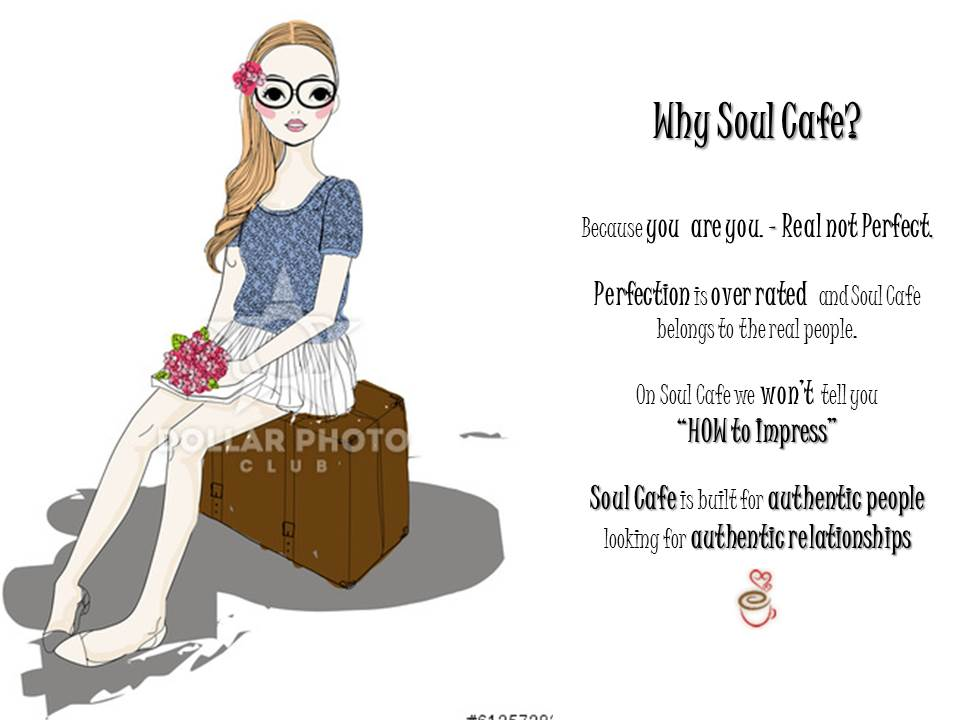
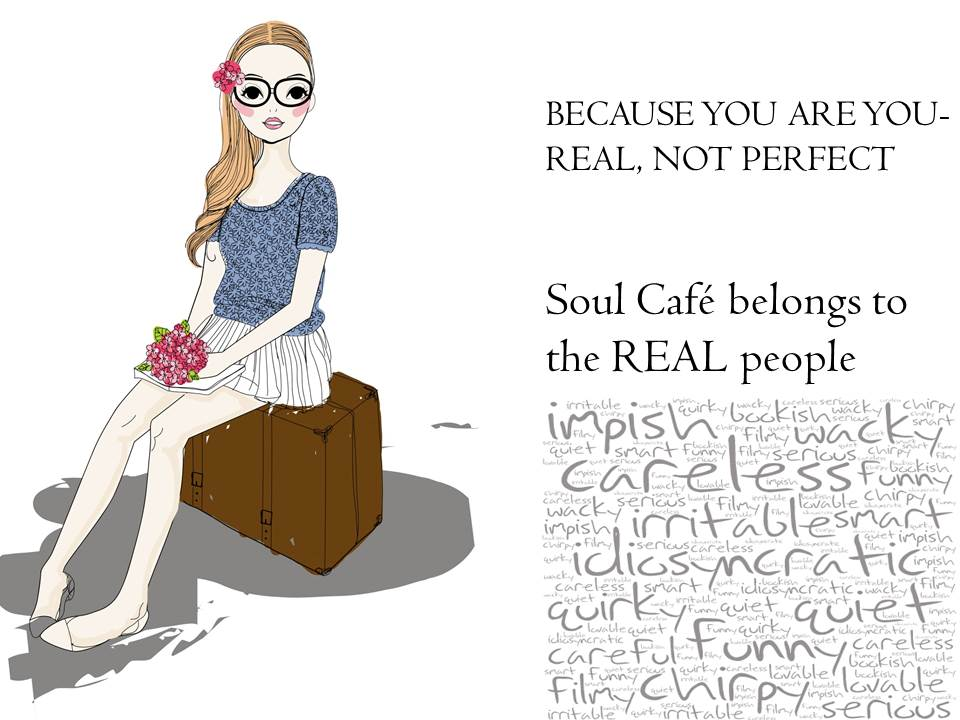
New images for slider added and close button change for why soulcafe

diff --git a/app/styles/home.scss b/app/styles/home.scss
@@ -2,6 +2,20 @@
 	border:1px solid red;
 }
 
+i.icon-custom1{
+	border: 1px solid #555;
+    color: #555;
+    display: inline-block;
+    font-size: 33px;
+    font-weight: 100 !important;
+    height: 32px;
+    line-height: 29px;
+   
+    padding-top: 0 !important;
+    text-align: center;
+    width: 32px;
+}
+
 .height-adjust{
 	height:550px;
 }
@@ -898,7 +912,7 @@ background: linear-gradient(270deg, #f2f2f2 80%, #d8d6d2 88%) repeat scroll 0 0 
 
 .video{
 	width:100%;
-	min-height:300px;
+	height:300px;
 }
 
 .footer-logo{
@@ -935,7 +949,7 @@ footer{
 .fixer {
     left: 92%;
     position: absolute;
-    top: -21px;
+    top: -19px;
     z-index: 999;
 }
 .fixer-no {
@@ -1052,7 +1066,7 @@ footer{
     	left: 97%;
 	}
 .fixer-no {
-    left: 81.5%;
+    left: 97%;
 }
 .fixer-contact {
     left: 95.5%;
@@ -1076,7 +1090,7 @@ footer{
 }
 
 .fixer-no {
-    left: 82%;
+    left: 97%;
 }
 
 .carousel-control .glyphicon-chevron-right, .carousel-control .icon-next {
@@ -1090,8 +1104,8 @@ footer{
 	height:550px;
 }
 .video{
-	width:70%;
-	min-height:300px;
+	width:100%;
+	min-height:400px;
 }
 .fortab{
 	float:none !important;
@@ -1289,8 +1303,8 @@ min-height: 1150px;
 	height:600px;
 }
 .video{
-	width:70%;
-	min-height:400px;
+	width:100%;
+	min-height:640px;
 }
 .left-signup {
 	padding-top:100px;
@@ -1456,7 +1470,7 @@ min-height: 1150px;
 	margin-left:10%;
 }
 .fixer-no {
-    left: 83%;
+    left: 98%;
 }
 .fixer{
 	left:98.5%;
@@ -1472,8 +1486,8 @@ min-height: 1150px;
 	height:550px;
 }
 .video{
-	width:70%;
-	min-height:400px;
+	width:100%;
+	min-height:640px;
 }
 .left-signup {
 	padding-top:100px;

diff --git a/app/views/why-soul.html b/app/views/why-soul.html
@@ -28,7 +28,7 @@
         ================================================== -->
       <div class="pos-rel">
        <a class=" fixer" title="Close" href="#/" >
-        <i class="icon-custom rounded-x icon-bg-u fa fa-times" ></i>
+        <i class="icon-custom1 rounded-x fa fa-times" ></i>
       </a>
       </div>
         
@@ -37,7 +37,7 @@
       
       <div class="carousel-inner" >
         
-        <div ng-class="{item: true, active : (img.no === 0)}" ng-repeat="img in images"> <img ng-src="{{img.src}}" alt="Slide numder {{img.no}}" style="width:100%;  height: 500px;">
+        <div ng-class="{item: true, active : (img.no === 0)}" ng-repeat="img in images"> <img ng-src="{{img.src}}" alt="Slide numder {{img.no}}" style="width:100%;height:500px;">
 
           <div class="container">
             <div class="carousel-caption"> </div>

diff --git a/app/scripts/controllers/why-soul.js b/app/scripts/controllers/why-soul.js
@@ -16,7 +16,7 @@ angular.module('sassApp')
     ];
 
     
-$scope.images = [{src:'app-images/sliders/whysoulcafe-testslide1.jpg',no:0,hide:true},{src:'app-images/sliders/Slide2.JPG',no:1},{src:'app-images/sliders/Slide3.JPG',no:2},{src:'app-images/sliders/Slide4.JPG',no:3},{src:'app-images/sliders/Slide5.JPG',no:4},{src:'app-images/sliders/Slide6.JPG',no:5},{src:'app-images/sliders/Slide7.JPG',no:6	}];
+$scope.images = [{src:'app-images/sliders/Slide1.JPG',no:0,hide:true},{src:'app-images/sliders/Slide2.JPG',no:1},{src:'app-images/sliders/Slide3.JPG',no:2},{src:'app-images/sliders/Slide4.JPG',no:3},{src:'app-images/sliders/Slide5.JPG',no:4},{src:'app-images/sliders/Slide6.JPG',no:5},{src:'app-images/sliders/Slide7.JPG',no:6	}];
   
   });
 
